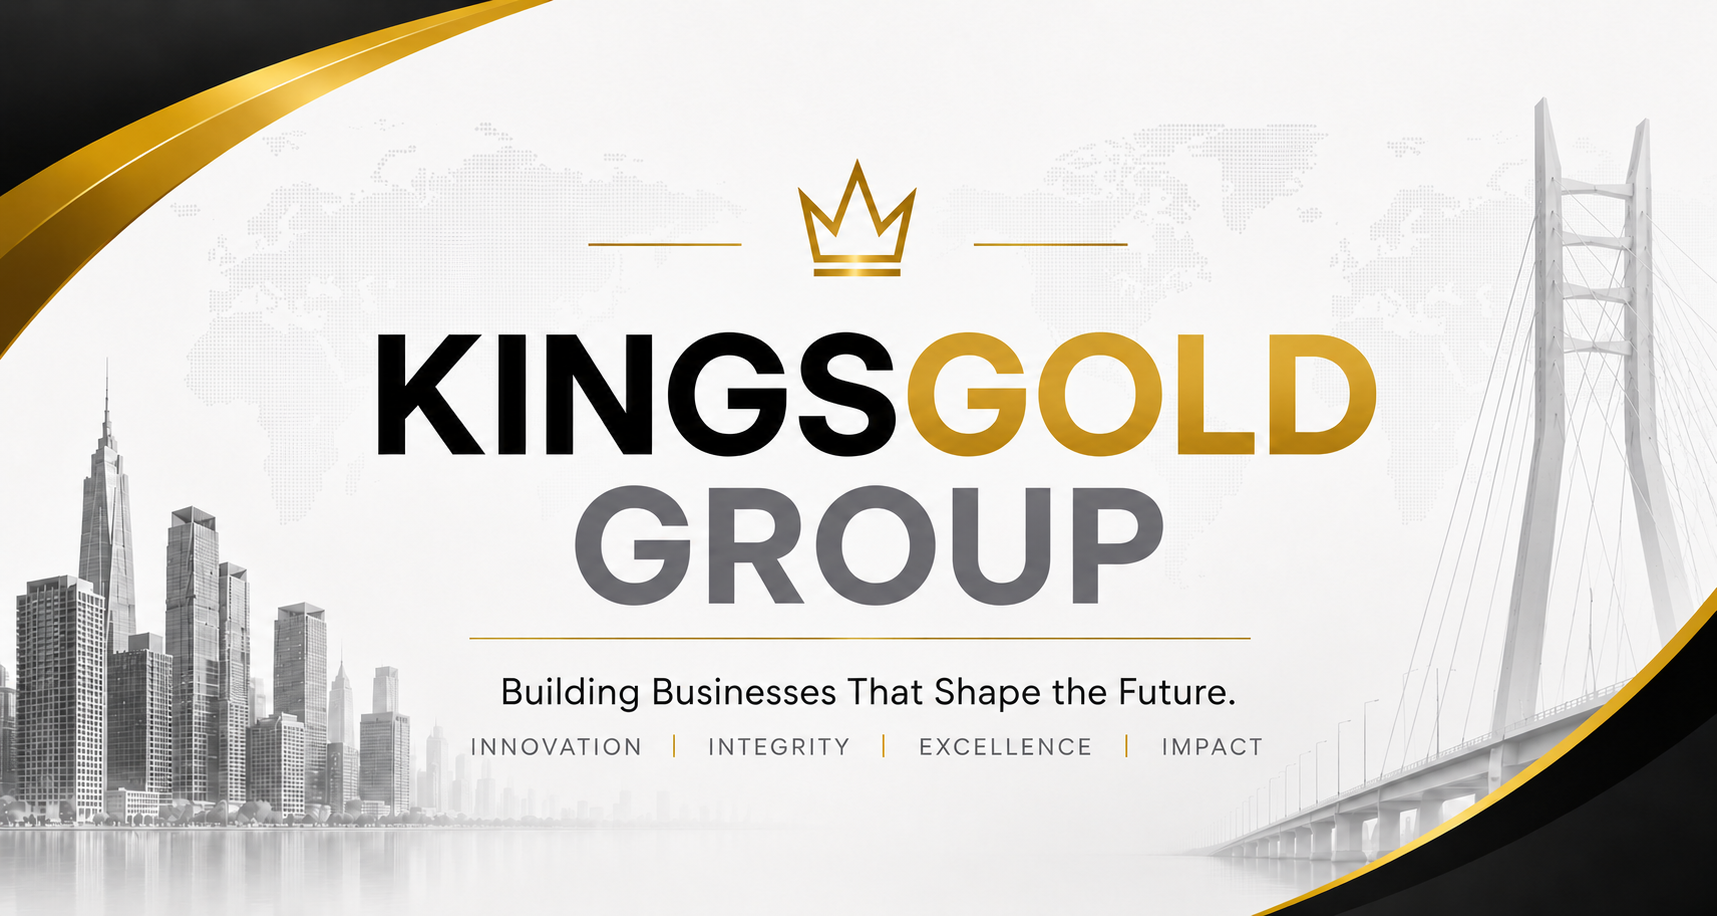
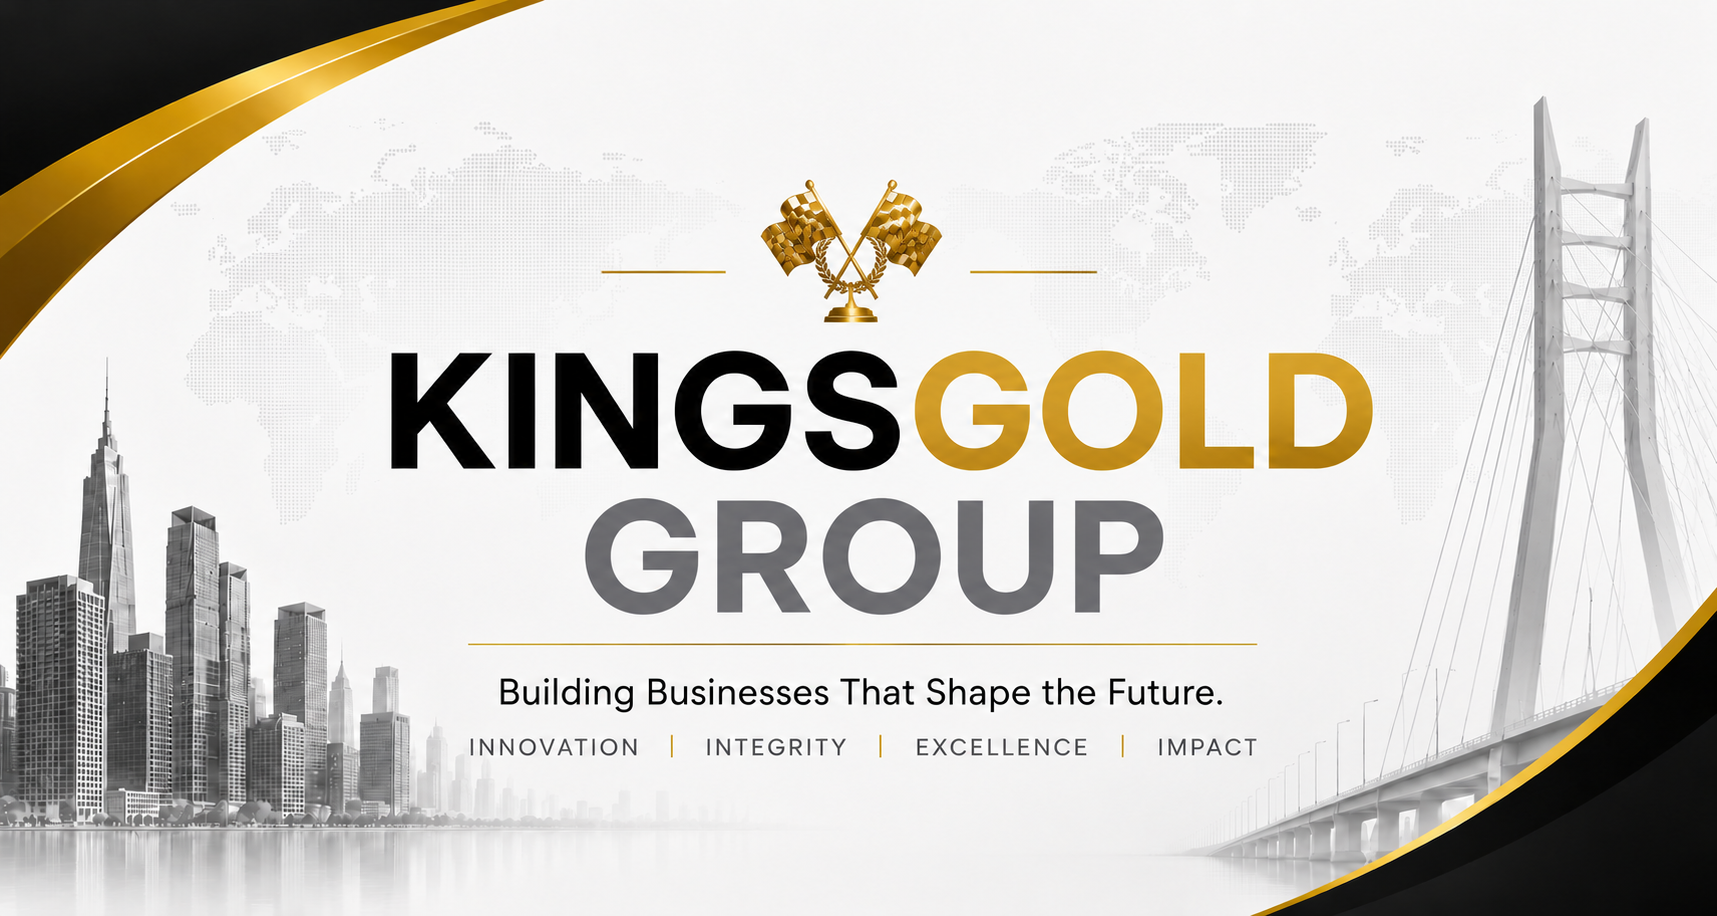
Update codebase

diff --git a/app/data/businesses.ts b/app/data/businesses.ts
@@ -57,15 +57,15 @@ export const businesses = [
     color: "#EC4899",
     image: "/logo/dicesea-logo.png",
   },
-  {
-    slug: "fromcoaltogold",
-    name: "From Coal To Gold",
-    industry: "Media",
-    description:
-      "Sharing real stories and lessons on mindset, discipline, and financial growth.",
-    website: "#",
-    mission: "To educate and inspire people to build a better future.",
-    color: "#D4AF37",
-    image: "/logo/fromcoaltogold-logo.png",
-  },
+  // {
+  //   slug: "fromcoaltogold",
+  //   name: "From Coal To Gold",
+  //   industry: "Media",
+  //   description:
+  //     "Sharing real stories and lessons on mindset, discipline, and financial growth.",
+  //   website: "#",
+  //   mission: "To educate and inspire people to build a better future.",
+  //   color: "#D4AF37",
+  //   image: "/logo/fromcoaltogold-logo.png",
+  // },
 ];